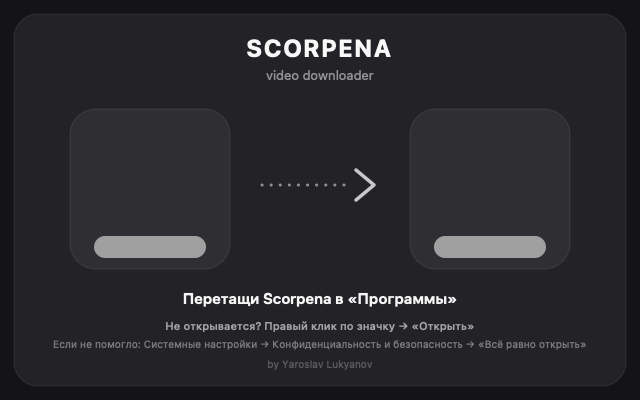
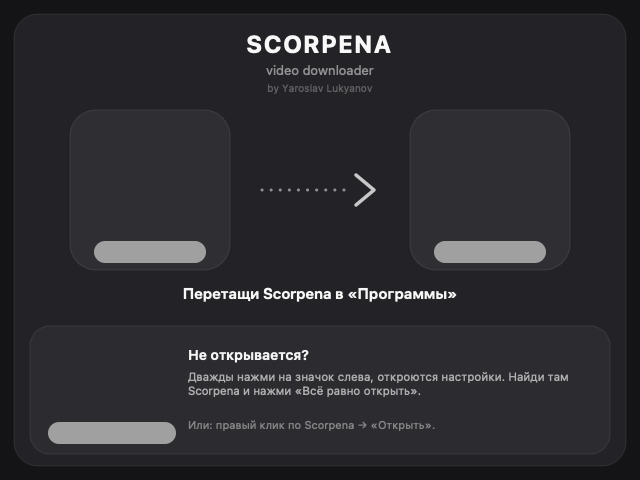
DMG: nicer layout with a help card and an 'Открыть настройки' shortcut (opens Privacy and Security in one double-click)
The shortcut is an .inetloc with a custom gear icon; verified it opens the pane even with the download quarantine flag. Window is 640x480.

diff --git a/Scripts/make-dmg-background.swift b/Scripts/make-dmg-background.swift
@@ -1,13 +1,15 @@
 // Generates the disk-image background: swift make-dmg-background.swift <out.png>
-// Exactly 640×400, in the look of the app: near-black canvas, one big soft rounded
+// Exactly 640×480, in the look of the app: near-black canvas, one big soft rounded
 // "stage" card, the brand on top, a rounded slot behind each of the two icons
-// (app on the left, Applications on the right) and a dotted arrow between them.
-// Icon centres are at x = 150 / 490, y = 185 from the top (package.sh puts them there).
+// (app on the left, Applications on the right), a dotted arrow between them and
+// a help card underneath with the "Открыть настройки" shortcut.
+// Icon centres (package.sh puts them there, y from the top):
+//   app (150, 190) · Applications (490, 190) · settings shortcut (112, 372)
 
 import AppKit
 
 let out = CommandLine.arguments.count > 1 ? CommandLine.arguments[1] : "dmg-background.png"
-let W = 640, H = 400
+let W = 640, H = 480
 
 guard let rep = NSBitmapImageRep(
     bitmapDataPlanes: nil, pixelsWide: W, pixelsHigh: H,
@@ -20,8 +22,12 @@ NSGraphicsContext.current = NSGraphicsContext(bitmapImageRep: rep)
 let ctx = NSGraphicsContext.current!.cgContext
 
 func white(_ alpha: CGFloat) -> CGColor { NSColor(calibratedWhite: 1, alpha: alpha).cgColor }
-func rounded(_ rect: CGRect, _ radius: CGFloat, fill: CGColor, stroke: CGColor? = nil) {
-    let path = CGPath(roundedRect: rect, cornerWidth: radius, cornerHeight: radius, transform: nil)
+/// Rectangle given from the TOP edge, like Finder positions.
+func rect(x: CGFloat, top: CGFloat, w: CGFloat, h: CGFloat) -> CGRect {
+    CGRect(x: x, y: CGFloat(H) - top - h, width: w, height: h)
+}
+func rounded(_ r: CGRect, _ radius: CGFloat, fill: CGColor, stroke: CGColor? = nil) {
+    let path = CGPath(roundedRect: r, cornerWidth: radius, cornerHeight: radius, transform: nil)
     ctx.setFillColor(fill)
     ctx.addPath(path)
     ctx.fillPath()
@@ -33,68 +39,75 @@ func rounded(_ rect: CGRect, _ radius: CGFloat, fill: CGColor, stroke: CGColor? 
     }
 }
 
-// canvas
-ctx.setFillColor(NSColor(calibratedRed: 0.063, green: 0.063, blue: 0.071, alpha: 1).cgColor)
-ctx.fill(CGRect(x: 0, y: 0, width: W, height: H))
-
-// the stage card
-rounded(CGRect(x: 14, y: 14, width: CGFloat(W) - 28, height: CGFloat(H) - 28), 24,
-        fill: NSColor(calibratedRed: 0.102, green: 0.102, blue: 0.114, alpha: 1).cgColor,
-        stroke: white(0.08))
-
-// brand (top)
-func text(_ s: String, size: CGFloat, weight: NSFont.Weight, alpha: CGFloat, y: CGFloat, kern: CGFloat = 0, x: CGFloat = 20, width: CGFloat? = nil) {
-    let p = NSMutableParagraphStyle(); p.alignment = .center
+/// Text with its top edge `top` points from the top of the window.
+func text(_ s: String, size: CGFloat, weight: NSFont.Weight, alpha: CGFloat, top: CGFloat,
+          x: CGFloat = 20, width: CGFloat? = nil, align: NSTextAlignment = .center, kern: CGFloat = 0, lines: CGFloat = 1) {
+    let p = NSMutableParagraphStyle(); p.alignment = align
     let attrs: [NSAttributedString.Key: Any] = [
         .font: NSFont.systemFont(ofSize: size, weight: weight),
         .foregroundColor: NSColor(calibratedWhite: 1, alpha: alpha),
         .paragraphStyle: p,
         .kern: kern,
     ]
-    (s as NSString).draw(in: CGRect(x: x, y: y, width: width ?? CGFloat(W) - 2 * x, height: size + 8),
-                         withAttributes: attrs)
+    let height = (size + 5) * lines
+    (s as NSString).draw(in: rect(x: x, top: top, w: width ?? CGFloat(W) - 2 * x, h: height), withAttributes: attrs)
 }
-text("SCORPENA", size: 24, weight: .bold, alpha: 0.97, y: CGFloat(H) - 66, kern: 2)
-text("video downloader", size: 13, weight: .regular, alpha: 0.5, y: CGFloat(H) - 88)
+
+// canvas + stage card
+ctx.setFillColor(NSColor(calibratedRed: 0.063, green: 0.063, blue: 0.071, alpha: 1).cgColor)
+ctx.fill(CGRect(x: 0, y: 0, width: W, height: H))
+rounded(rect(x: 14, top: 14, w: CGFloat(W) - 28, h: CGFloat(H) - 28), 24,
+        fill: NSColor(calibratedRed: 0.102, green: 0.102, blue: 0.114, alpha: 1).cgColor,
+        stroke: white(0.08))
+
+// brand
+text("SCORPENA", size: 24, weight: .bold, alpha: 0.97, top: 30, kern: 2)
+text("video downloader", size: 13, weight: .regular, alpha: 0.5, top: 62)
+text("by Yaroslav Lukyanov", size: 10, weight: .regular, alpha: 0.28, top: 82)
 
 // a rounded slot behind each icon
-let iconY = CGFloat(H - 185)
+let rowY: CGFloat = 190
 for x in [CGFloat(150), CGFloat(490)] {
-    rounded(CGRect(x: x - 80, y: iconY - 84, width: 160, height: 160), 26,
-            fill: white(0.055), stroke: white(0.09))
+    rounded(rect(x: x - 80, top: rowY - 80, w: 160, h: 160), 26, fill: white(0.055), stroke: white(0.09))
 }
 
 // Finder draws the file names itself — black on a light-mode Mac, white on a
 // dark-mode one — so a mid-grey pill under each name keeps both readable.
-func plate(centreX: CGFloat, centreY: CGFloat, width: CGFloat) {
-    rounded(CGRect(x: centreX - width / 2, y: centreY - 11, width: width, height: 22), 11,
+func plate(centreX: CGFloat, topCentre: CGFloat, width: CGFloat) {
+    rounded(rect(x: centreX - width / 2, top: topCentre - 11, w: width, h: 22), 11,
             fill: NSColor(calibratedWhite: 0.56, alpha: 1).cgColor)
 }
-plate(centreX: 150, centreY: iconY - 62, width: 112)
-plate(centreX: 490, centreY: iconY - 62, width: 112)
+plate(centreX: 150, topCentre: rowY + 62, width: 112)
+plate(centreX: 490, topCentre: rowY + 62, width: 112)
 
 // dotted arrow: "drag this onto that"
+let arrowY = CGFloat(H) - rowY
 ctx.setStrokeColor(white(0.5))
 ctx.setLineWidth(3)
 ctx.setLineCap(.round)
 ctx.setLineJoin(.round)
 ctx.setLineDash(phase: 0, lengths: [0.1, 9])
-ctx.move(to: CGPoint(x: 262, y: iconY))
-ctx.addLine(to: CGPoint(x: 352, y: iconY))
+ctx.move(to: CGPoint(x: 262, y: arrowY))
+ctx.addLine(to: CGPoint(x: 352, y: arrowY))
 ctx.strokePath()
 ctx.setLineDash(phase: 0, lengths: [])
 ctx.setStrokeColor(white(0.75))
 ctx.setLineWidth(3.5)
-ctx.move(to: CGPoint(x: 356, y: iconY + 15))
-ctx.addLine(to: CGPoint(x: 374, y: iconY))
-ctx.addLine(to: CGPoint(x: 356, y: iconY - 15))
+ctx.move(to: CGPoint(x: 356, y: arrowY + 15))
+ctx.addLine(to: CGPoint(x: 374, y: arrowY))
+ctx.addLine(to: CGPoint(x: 356, y: arrowY - 15))
 ctx.strokePath()
 
-// install hint + help (bottom, centred)
-text("Перетащи Scorpena в «Программы»", size: 15, weight: .semibold, alpha: 0.96, y: 88, x: 40, width: CGFloat(W) - 80)
-text("Не открывается? Правый клик по значку → «Открыть»", size: 11, weight: .medium, alpha: 0.58, y: 62, x: 40, width: CGFloat(W) - 80)
-text("Если не помогло: Системные настройки → Конфиденциальность и безопасность → «Всё равно открыть»", size: 10, weight: .regular, alpha: 0.4, y: 44, x: 40, width: CGFloat(W) - 80)
-text("by Yaroslav Lukyanov", size: 10, weight: .regular, alpha: 0.26, y: 24, x: 40, width: CGFloat(W) - 80)
+// install hint
+text("Перетащи Scorpena в «Программы»", size: 15, weight: .semibold, alpha: 0.96, top: 284, x: 40, width: CGFloat(W) - 80)
+
+// help card: the shortcut icon sits on the left, the explanation on the right
+rounded(rect(x: 30, top: 326, w: CGFloat(W) - 60, h: 128), 20, fill: white(0.045), stroke: white(0.08))
+plate(centreX: 112, topCentre: 433, width: 128)
+text("Не открывается?", size: 14, weight: .semibold, alpha: 0.95, top: 346, x: 188, width: 412, align: .left)
+text("Дважды нажми на значок слева, откроются настройки. Найди там Scorpena и нажми «Всё равно открыть».",
+     size: 11.5, weight: .regular, alpha: 0.62, top: 370, x: 188, width: 400, align: .left, lines: 2)
+text("Или: правый клик по Scorpena → «Открыть».", size: 11, weight: .regular, alpha: 0.42, top: 418, x: 188, width: 412, align: .left)
 
 NSGraphicsContext.restoreGraphicsState()
 

diff --git a/Scripts/make-settings-icon.swift b/Scripts/make-settings-icon.swift
@@ -1,0 +1,48 @@
+// Draws the icon of the "Открыть настройки" shortcut that sits in the DMG:
+// swift make-settings-icon.swift <out.png>
+// A black rounded square with a white gear — the same family as the app icon.
+
+import AppKit
+
+let out = CommandLine.arguments.count > 1 ? CommandLine.arguments[1] : "settings-icon.png"
+let S = 1024
+
+guard let rep = NSBitmapImageRep(
+    bitmapDataPlanes: nil, pixelsWide: S, pixelsHigh: S,
+    bitsPerSample: 8, samplesPerPixel: 4, hasAlpha: true, isPlanar: false,
+    colorSpaceName: .deviceRGB, bytesPerRow: 0, bitsPerPixel: 0
+) else { fatalError("no rep") }
+
+NSGraphicsContext.saveGraphicsState()
+NSGraphicsContext.current = NSGraphicsContext(bitmapImageRep: rep)
+let ctx = NSGraphicsContext.current!.cgContext
+
+// rounded square (the usual 824-pt body inside a 1024 canvas)
+let body = CGRect(x: 100, y: 100, width: 824, height: 824)
+let path = CGPath(roundedRect: body, cornerWidth: 184, cornerHeight: 184, transform: nil)
+ctx.setFillColor(NSColor(calibratedRed: 0.07, green: 0.07, blue: 0.08, alpha: 1).cgColor)
+ctx.addPath(path)
+ctx.fillPath()
+ctx.setStrokeColor(NSColor(calibratedWhite: 1, alpha: 0.12).cgColor)
+ctx.setLineWidth(6)
+ctx.addPath(path)
+ctx.strokePath()
+
+// white gear
+let config = NSImage.SymbolConfiguration(pointSize: 420, weight: .regular)
+guard let symbol = NSImage(systemSymbolName: "gearshape.fill", accessibilityDescription: nil)?
+    .withSymbolConfiguration(config) else { fatalError("no symbol") }
+let size = symbol.size
+let tinted = NSImage(size: size)
+tinted.lockFocus()
+symbol.draw(in: NSRect(origin: .zero, size: size))
+NSColor.white.set()
+NSRect(origin: .zero, size: size).fill(using: .sourceAtop)
+tinted.unlockFocus()
+tinted.draw(in: NSRect(x: (CGFloat(S) - size.width) / 2, y: (CGFloat(S) - size.height) / 2,
+                       width: size.width, height: size.height))
+
+NSGraphicsContext.restoreGraphicsState()
+guard let png = rep.representation(using: .png, properties: [:]) else { fatalError("encode failed") }
+try! png.write(to: URL(fileURLWithPath: out))
+print("wrote \(out)")
